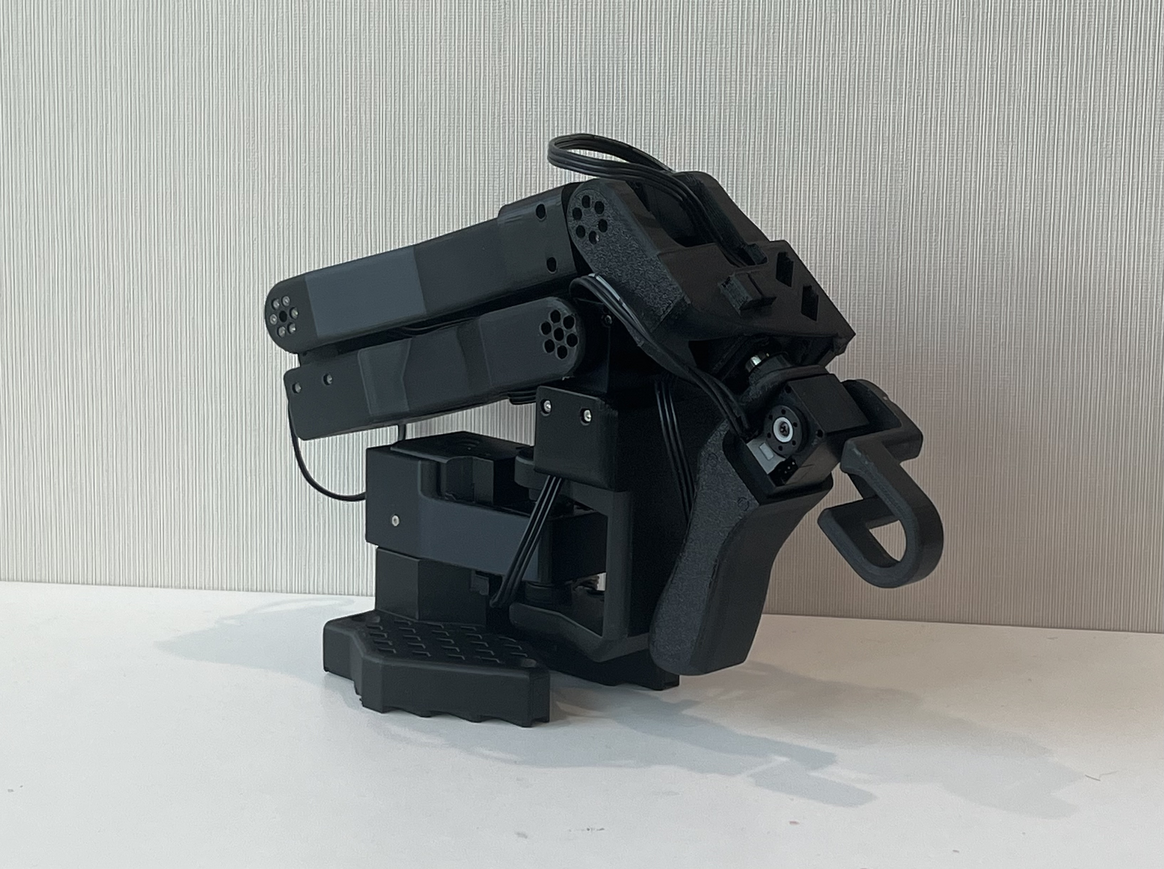
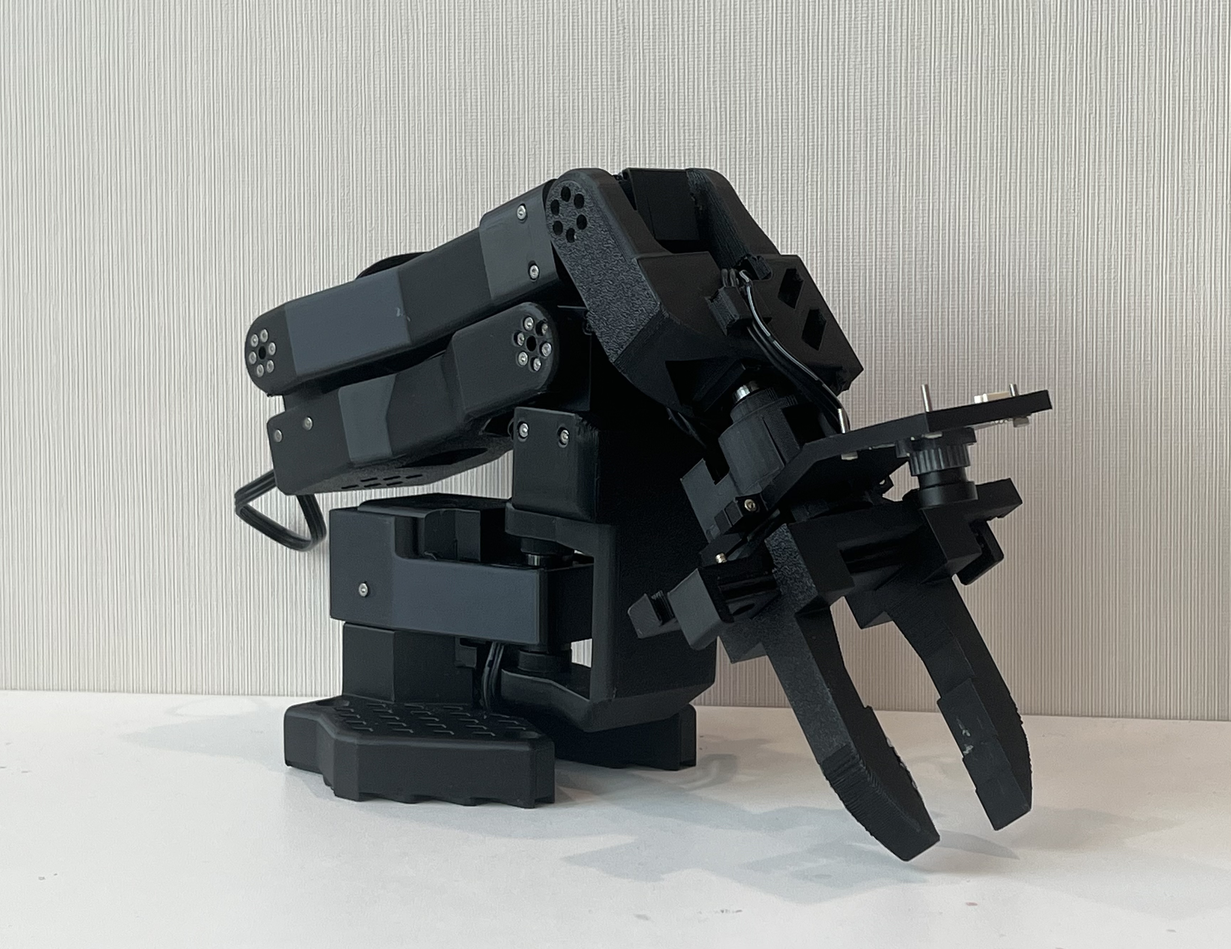
update README demo

diff --git a/README.md b/README.md
@@ -45,10 +45,10 @@ UniArmL1 机械臂的BOM 清单、组装指南与 3D 打印文件请参考：
 <table>
   <tr>
     <td style="width: 50%; text-align: center;">
-      <img src="media/readme/real_follower.png?raw=true" alt="Follower" title="Follower" style="width: 100%; height: auto; object-fit: contain; display: block;" />
+      <img src="media/readme/real_follower.png?raw=true" alt="Follower" title="Follower" style="width: 98%; height: auto; object-fit: contain; display: block;" />
     </td>
     <td style="width: 50%; text-align: center;">
-      <img src="media/readme/real_leader.png?raw=true" alt="Leader" title="Leader" style="width: 98%; height: auto; object-fit: contain; display: block;" />
+      <img src="media/readme/real_leader.png?raw=true" alt="Leader" title="Leader" style="width: 100%; height: auto; object-fit: contain; display: block;" />
     </td>
   </tr>
 </table>
